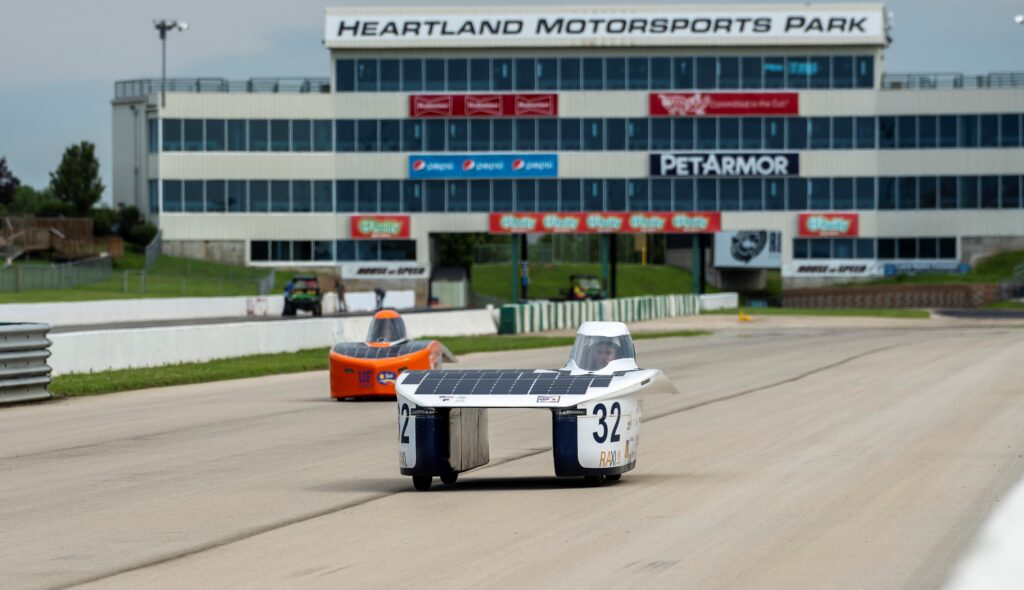
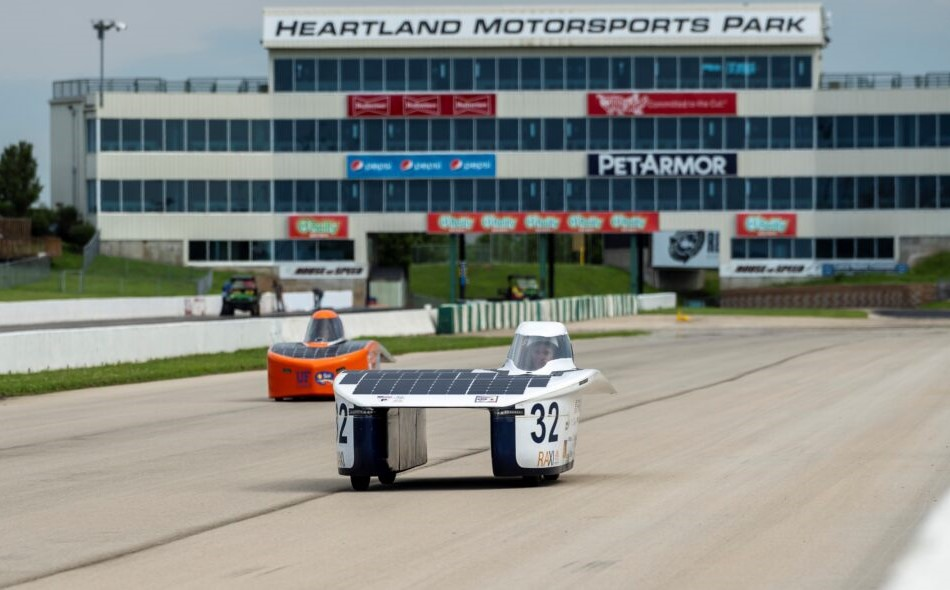
Images from this year

diff --git a/index.md b/index.md
@@ -46,7 +46,7 @@ social_image: https://www.americansolarchallenge.org/2023/results/assets/images/
 	</section>
 	<section>
 		<a href="fsgp_mov.html" class="image">
-			<img src="{% link assets/images/app_state_track.jpg %}" alt="" data-position="25% 25%" />
+			<img src="{% link assets/images/MOV_FrontStraight.jpg %}" alt="" data-position="25% 25%" />
 		</a>
 		<div class="content">
 			<div class="inner">

diff --git a/fsgp_mov.md b/fsgp_mov.md
@@ -6,7 +6,7 @@ nav-menu: true
 header: no
 social_title: Multi Occupant Class Results
 social_description: Electrek Formula Sun Grand Prix 2023
-social_image: https://americansolarchallenge.org/2023/results/assets/images/app_state_track.jpg
+social_image: https://americansolarchallenge.org/2023/results/assets/images/MOV_FrontStraight.jpg
 ---
 
 
